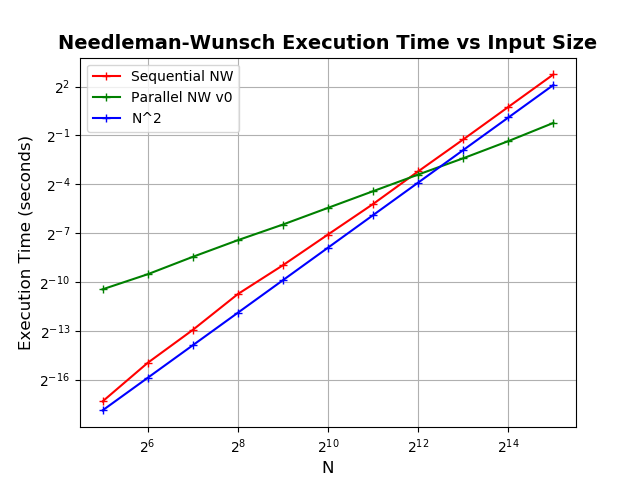
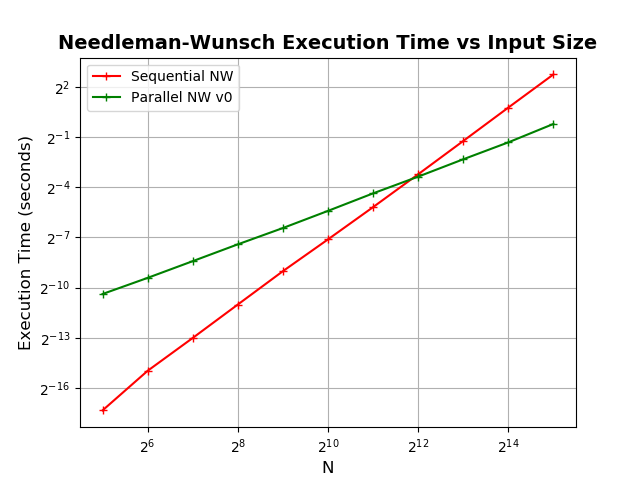
After GPU v0 run on Octopus

diff --git a/plot_execution_times.py b/plot_execution_times.py
@@ -15,12 +15,6 @@ def timerun(program, args) :
 
     # Execute program, once for each n argument
     for n in args:
-
-        # This was really annoying. Build the arguments to the time system call to the time command.
-        # First of all, for whatever reason 'time' didn't work correctly with any arguments other than -p,
-        # so I used /usr/bin/time instead. Since I could not figure out why the output of 'time' was not
-        # coming back to stdin, I use the -o (output file) and -a (append) option to just output the real
-        # execution time ( thats where '-f' and '%e' comes from ) to the file.
         #p = subprocess.Popen(['/usr/bin/time', '-o', 'runtimes.txt', '-a', '-f', '%e', './' + program, str(n)],
         #                     stdout=subprocess.PIPE)
         p = subprocess.Popen(['./' + program, '-0', '-N', str(n)], stdout=subprocess.PIPE)
@@ -47,8 +41,6 @@ def main():
     # Arguments
     args = np.arange(5,16,1)
     args = 2**args
-    print(args) 
-    args_sq = np.square(args) /(2.5*(10**8))
 	
     # Compute the runtimes of the algorithm for various N
     times_seq, times_gpu0 = timerun('nw', args)
@@ -61,7 +53,6 @@ def main():
     plt.title('Needleman-Wunsch Execution Time vs Input Size', fontsize=14, weight='bold')
     plt.plot(args, times_seq, 'r+-', label = "Sequential NW")
     plt.plot(args, times_gpu0, 'g+-', label = "Parallel NW v0")
-    plt.plot(args,args_sq, 'b+-', label = "N^2")
     plt.xscale('log',basex=2)
     plt.yscale('log',basey=2)
     plt.legend()	
